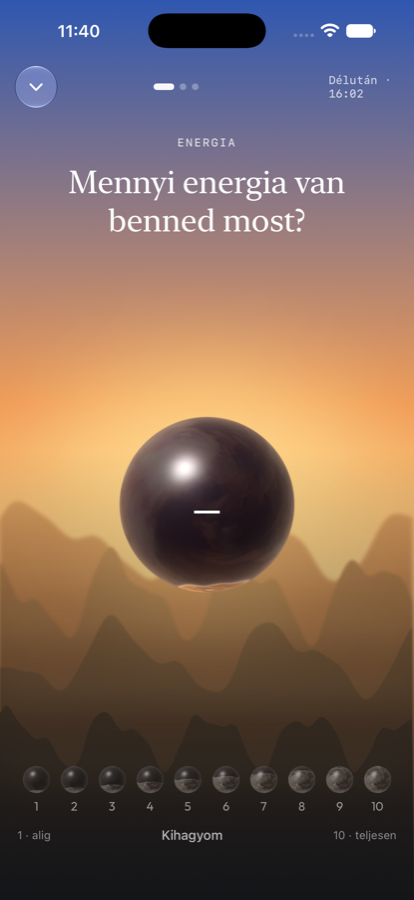
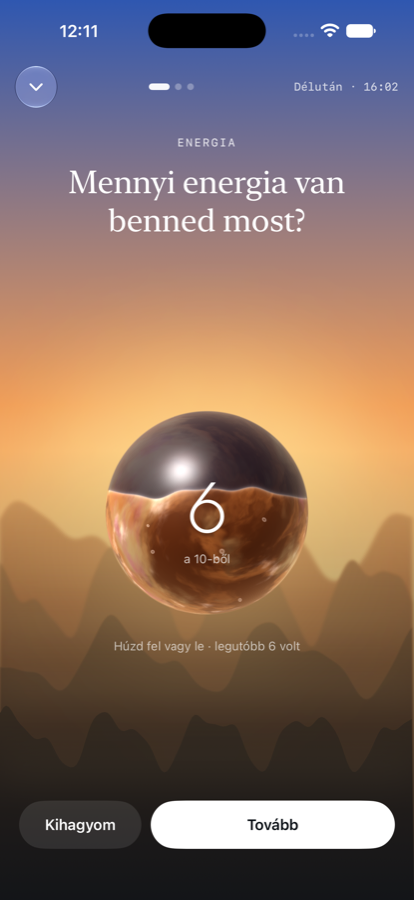
docs(boop): B3 spike — check-in answered by swiping the orb, then Tovább (owner feedback) (mezo-r36n9.13)

diff --git a/docs/design_2.0/prototypes/boop-ios-spike/BoopSpike/RitmusCheckin.swift b/docs/design_2.0/prototypes/boop-ios-spike/BoopSpike/RitmusCheckin.swift
@@ -27,12 +27,14 @@ struct RitmusCheckin: View {
     @State private var seconds = 0
     @State private var note: String? = nil
     @State private var selected: UUID? = nil
+    @State private var dragStart: Int? = nil
+    @State private var swipes = 0
 
     var body: some View {
         Group { if finished { done } else { question } }
             .onDisappear { motion.stop() }
             .preferredColorScheme(.dark)
-            .onAppear { if finished { taps = 4; seconds = 6; selected = day.checkins.last?.id } }
+            .onAppear { if finished { taps = 4; swipes = 3; seconds = 8; selected = day.checkins.last?.id } }
     }
 
     private var q: Q { qs[i] }
@@ -77,48 +79,60 @@ struct RitmusCheckin: View {
 
                 Spacer()
 
+                // the orb is the answer: swipe up or down on it, the liquid follows; then tap Tovább
                 ZStack {
-                    Circle().fill(PaintedLandscape.skies[q.hue][2].opacity(0.35)).frame(width: 280).blur(radius: 60)
-                    LivingOrb(mood: .good, size: 190, motion: motion, palette: SunMetric.all[q.hue].orb, glow: false,
-                              level: max(0.04, Double(values[q.key] ?? 0) / 10))
+                    Circle().fill(PaintedLandscape.skies[q.hue][2].opacity(0.35)).frame(width: 300).blur(radius: 60)
+                    LivingOrb(mood: .good, size: 220, motion: motion, palette: SunMetric.all[q.hue].orb, glow: false,
+                              level: max(0.04, Double(v) / 10))
                         .allowsHitTesting(false)
-                    Text(values[q.key].map { "\($0)" } ?? "–").font(.custom("Outfit", size: 70).weight(.light)).foregroundStyle(.white)
-                        .contentTransition(.numericText(value: Double(values[q.key] ?? 0)))
-                        .shadow(color: .black.opacity(0.3), radius: 8)
+                    VStack(spacing: 0) {
+                        Text("\(v)").font(.custom("Outfit", size: 78).weight(.light)).foregroundStyle(.white)
+                            .contentTransition(.numericText(value: Double(v)))
+                        Text("a 10-ből").font(.system(size: 13)).foregroundStyle(.white.opacity(0.75))
+                    }
+                    .shadow(color: .black.opacity(0.3), radius: 8)
+                    .allowsHitTesting(false)
                 }
-                .frame(height: 230)
-                Text(values[q.key] == nil ? "Koppints egy számra lent" : " ").font(.system(size: 13)).foregroundStyle(.white.opacity(0.6))
+                .frame(width: 300, height: 260)
+                .contentShape(Circle())
+                .gesture(
+                    DragGesture(minimumDistance: 2)
+                        .onChanged { g in
+                            if dragStart == nil { dragStart = v; swipes += 1 }
+                            let nv = max(1, min(10, (dragStart ?? 5) - Int((g.translation.height / 26).rounded())))
+                            if nv != v { withAnimation(.spring(response: 0.25, dampingFraction: 0.8)) { values[q.key] = nv } }
+                        }
+                        .onEnded { _ in dragStart = nil }
+                )
+                .sensoryFeedback(.impact(flexibility: .soft, intensity: 0.45), trigger: v)
+                Text(previous[q.key].map { "Húzd fel vagy le · legutóbb \($0) volt" } ?? "Húzd fel vagy le")
+                    .font(.system(size: 13)).foregroundStyle(.white.opacity(0.65)).padding(.top, 4)
 
                 Spacer()
 
-                VStack(spacing: 14) {
-                    RLevelRow(palette: SunMetric.all[q.hue].orb, value: values[q.key]) { k in pick(k) }
-                    HStack {
-                        Text("1 · alig").font(.system(size: 12)).foregroundStyle(.white.opacity(0.5))
-                        Spacer()
-                        Button("Kihagyom") { taps += 1; advance() }
-                            .font(.system(size: 14, weight: .medium)).foregroundStyle(.white.opacity(0.7))
-                        Spacer()
-                        Text("10 · teljesen").font(.system(size: 12)).foregroundStyle(.white.opacity(0.5))
+                HStack(spacing: 10) {
+                    Button { taps += 1; advance() } label: { AuraPill(text: "Kihagyom", primary: false) }
+                        .buttonStyle(.plain).frame(width: 130)
+                    Button { taps += 1; if values[q.key] == nil { values[q.key] = v }; advance() } label: {
+                        AuraPill(text: i == qs.count - 1 ? "Kész" : "Tovább")
                     }
+                    .buttonStyle(.plain)
                 }
-                .padding(.horizontal, 18).padding(.bottom, 26)
+                .padding(.horizontal, 20).padding(.bottom, 20)
             }
         }
     }
 
-    private func pick(_ k: Int) {
-        taps += 1
-        withAnimation(.spring(response: 0.35, dampingFraction: 0.75)) { values[q.key] = k }
-        DispatchQueue.main.asyncAfter(deadline: .now() + 0.45) { advance() }
-    }
+    /// Starts from the last answer of the day (energy: noon's 6), so "same as before" is one tap on Tovább.
+    private var previous: [String: Int] { ["energy": day.checkins.last?.energy ?? 5] }
+    private var v: Int { values[q.key] ?? previous[q.key] ?? 5 }
 
     private func advance() {
         if i < qs.count - 1 { withAnimation(.easeInOut(duration: 0.45)) { i += 1 }; return }
         // third answer = saved (on the phone first; sent now, or later when offline)
         seconds = max(1, Int(Date().timeIntervalSince(started)))
         let others = qs.dropFirst().compactMap { q in values[q.key].map { (q.label, $0) } }
-        day.addAfternoon(energy: values["energy"] ?? 5, others: others)
+        day.addAfternoon(energy: values["energy"] ?? previous["energy"] ?? 5, others: others)
         selected = day.checkins.last?.id
         withAnimation(.easeInOut(duration: 0.5)) { finished = true }
     }
@@ -162,13 +176,13 @@ struct RitmusCheckin: View {
                     }
                     Text(day.offline
                          ? "Megvan. Amint lesz net, megnézem a délutánodat, és szólok, mit egyél a röpi előtt."
-                         : "Délben még 6 voltál, most 5, és a HRV-d is a szokott alatt. Egyél 17:30 körül egy banánt joghurttal, hogy a 19:00-s röpire maradjon erőd.")
+                         : "Délben még 6 voltál, most \(day.checkins.last?.energy ?? 5), és a HRV-d is a szokott alatt. Egyél 17:30 körül egy banánt joghurttal, hogy a 19:00-s röpire maradjon erőd.")
                         .font(AuraFont.serif(18)).lineSpacing(4).foregroundStyle(.white.opacity(0.9))
                 }
                 .padding(20).frame(maxWidth: .infinity, alignment: .leading).gCard()
 
                 GPill(title: "Kész") { onClose() }.padding(.top, 4)
-                RTapCount(taps: taps, seconds: seconds).padding(.top, 2)
+                RTapCount(taps: taps, swipes: swipes, seconds: seconds).padding(.top, 2)
             }
             .padding(.horizontal, 16).padding(.top, 8).padding(.bottom, 40)
         }

diff --git a/docs/design_2.0/prototypes/boop-ios-spike/BoopSpike/RitmusParts.swift b/docs/design_2.0/prototypes/boop-ios-spike/BoopSpike/RitmusParts.swift
@@ -153,9 +153,11 @@ struct ROfflineChip: View {
 /// Spike-only: the tap count of a flow, shown where it ends (the design goal is counted, not guessed).
 struct RTapCount: View {
     var taps: Int
+    var swipes = 0
     var seconds: Int? = nil
     var body: some View {
-        Text(seconds.map { "\(taps) koppintás · \($0) mp" } ?? "\(taps) koppintás")
+        let g = swipes > 0 ? "\(swipes) húzás · \(taps) koppintás" : "\(taps) koppintás"
+        Text(seconds.map { "\(g) · \($0) mp" } ?? g)
             .font(AuraFont.mono(11, .semibold)).tracking(1).foregroundStyle(.white.opacity(0.5))
     }
 }
